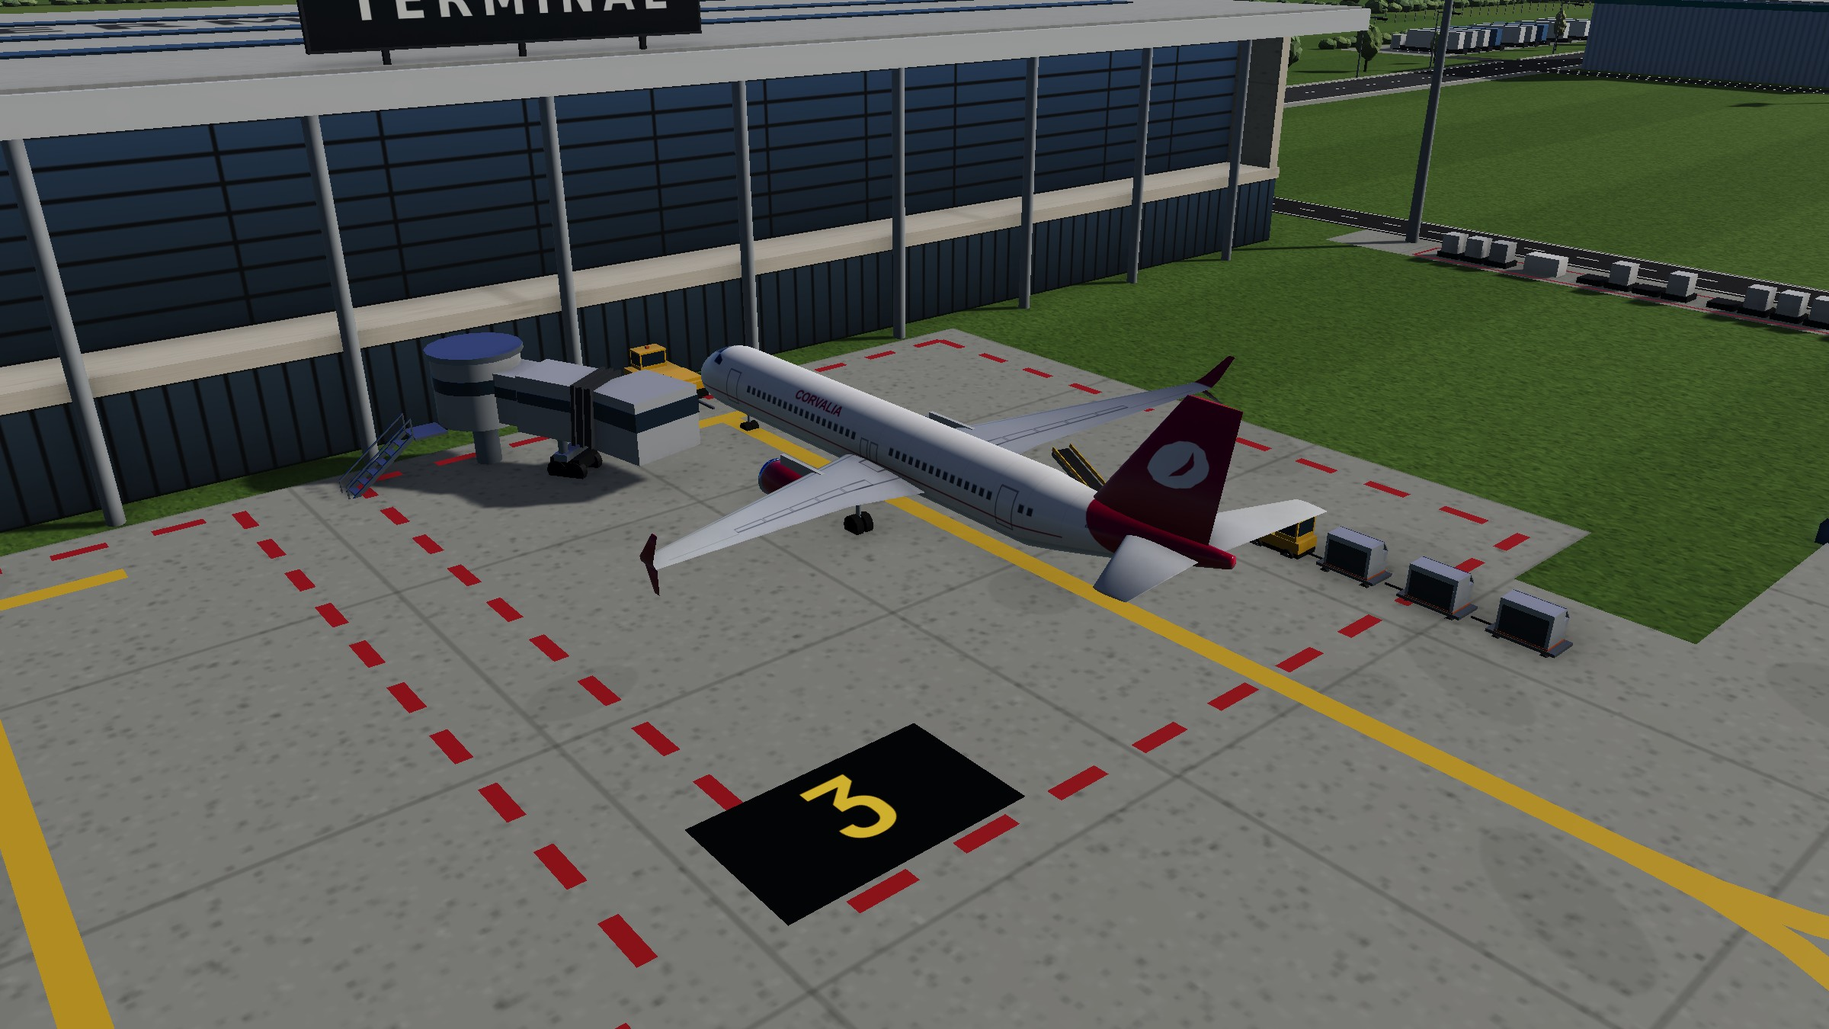
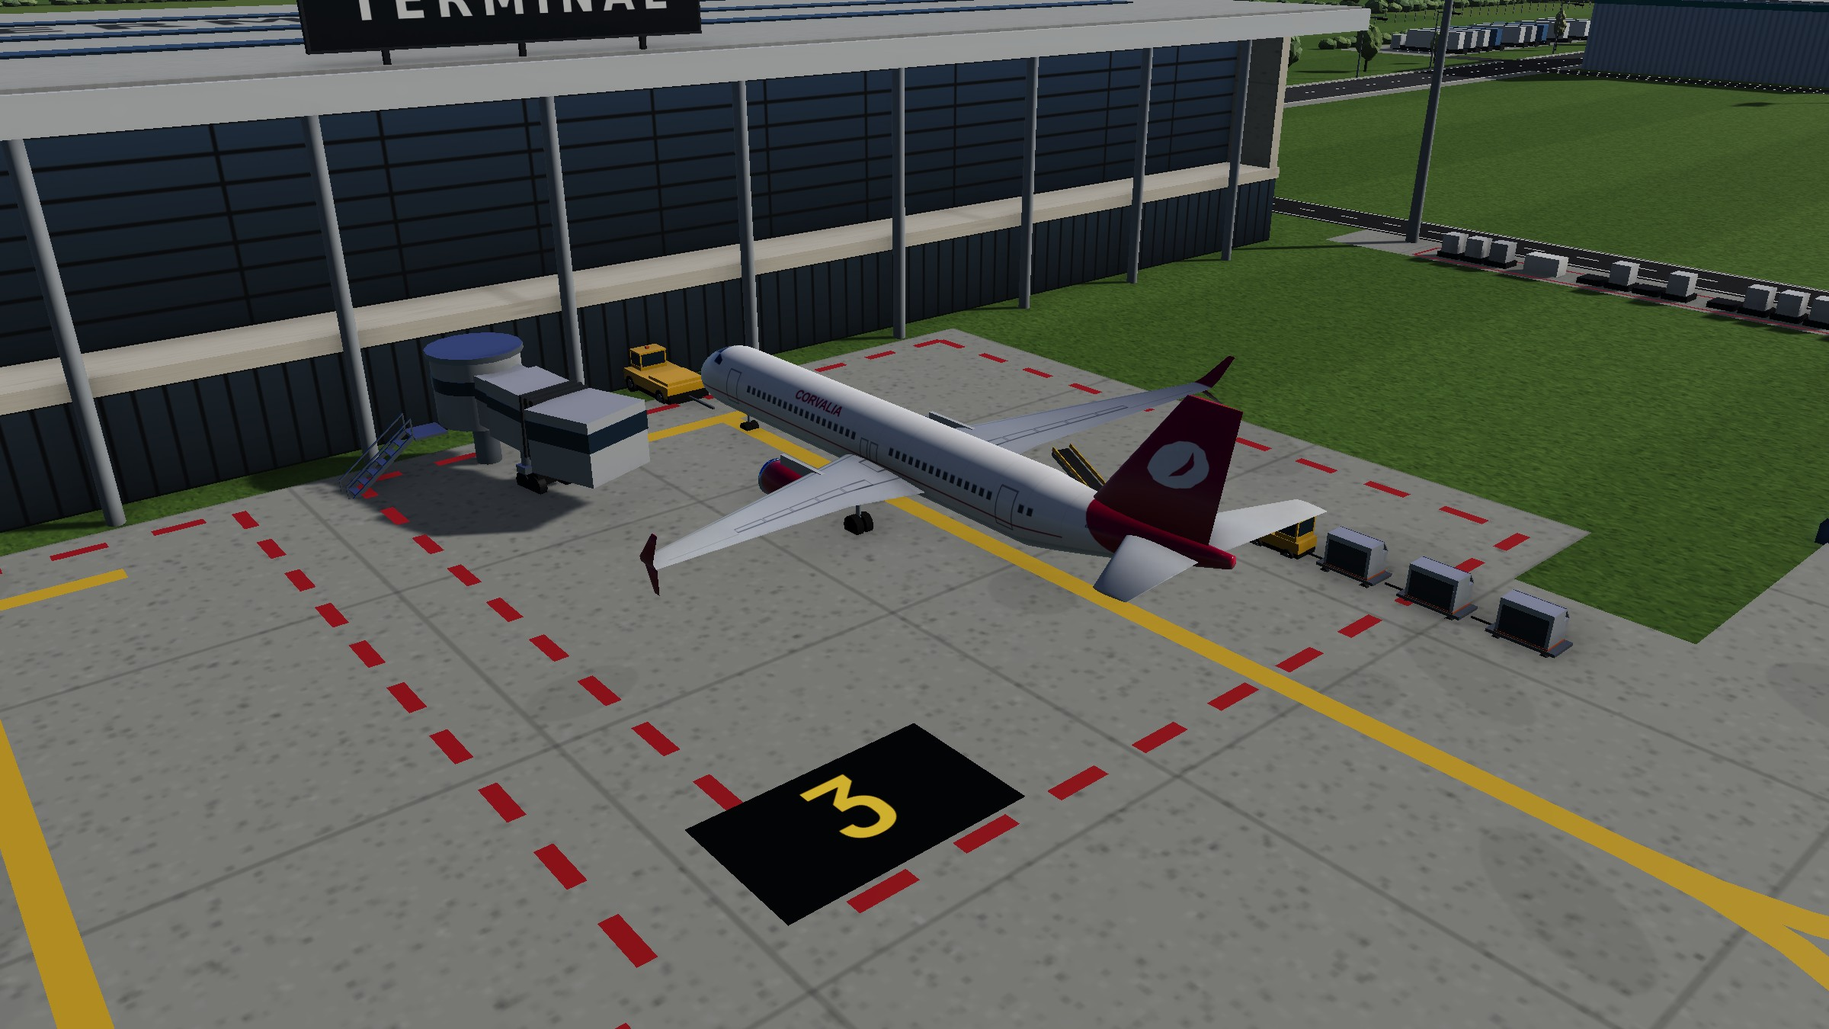
Polish round 2: Build Mode labels, phones, parked shots, rough edges (#99)
* Polish: Build Mode, phone screenshots, parked shots and rough edges

- Build Mode leaves out the landside dressing (free tiles look free) and draws Land Plot prices on top of the
  dimmed plots again (they had turned dark).
- Screenshots: a phone-sized Live Day and Plan Mode; parked close-ups pick an aircraft parked at least a minute and
  let the Day run a moment first, so its vehicles and jet bridge are out.
- No flood mast where two buildings meet (it stood in the first Stand); de-icing trucks get wheels; glass under the
  Terminal deck shows less sky (it's in shade); a little brighter at golden hour; one doc sentence said twice.

Claude-Session: https://claude.ai/code/session_017hX3QnC5DmNMeZd9roDefn

* Phones: the Plan Mode header wraps, so Start Day is on screen

On a 390 px wide phone the header didn't wrap: money, Options and Start Day ran off the right edge, so a Day
couldn't be started. Below 900 px it now wraps, with Start Day full width under it.

Claude-Session: https://claude.ai/code/session_017hX3QnC5DmNMeZd9roDefn

* Update README screenshots

* Build Mode plot prices as page text; parked shots wait for a whole game minute

The Land Plot prices drawn in 3D kept coming out dark; they're now page text over the map, placed and sized with the
zoom (hidden when a plot is too small to read). Parked close-ups now run the Day until its clock has moved on a
minute and the new step is drawn.

Claude-Session: https://claude.ai/code/session_017hX3QnC5DmNMeZd9roDefn
[…]

Changed region(s): [[0.1875, 0.3422, 0.4062, 0.5289]]

diff --git a/src/render/view.ts b/src/render/view.ts
@@ -14,7 +14,6 @@ import { AircraftLayer } from './aircraftLayer';
 import { buildAirfield, type Airfield } from './airfield';
 import { buildLightPools, type LightPools } from './lightPools';
 import { PerfOverlay } from './perfOverlay';
-import { canvasTexture } from './textures';
 
 const GROUND_NIGHT = new Color3(0.02, 0.025, 0.03);
 const GROUND_DAY = new Color3(0.42, 0.46, 0.4);
@@ -205,7 +204,7 @@ export class AirportView {
     for (const item of this.airfieldItems) item.dispose();
     const s = this.scene;
     const before = new Set<object>([...s.meshes, ...s.materials, ...s.textures, ...s.transformNodes]);
-    this.airfield = buildAirfield({ scene: s, caster: (m) => this.shadows.addShadowCaster(m, false), glow: (m) => this.glow.addIncludedOnlyMesh(m) }, layout);
+    this.airfield = buildAirfield({ scene: s, caster: (m) => this.shadows.addShadowCaster(m, false), glow: (m) => this.glow.addIncludedOnlyMesh(m), dressing: this.mode === 'live' }, layout);
     // painted pools of light on the ground at night (under every flood mast, on Stands, along building fronts)
     this.pools = this.mode === 'live' ? buildLightPools(s, layout, this.airfield.floods) : null;
     this.airfieldItems = [...s.meshes, ...s.materials, ...s.textures, ...s.transformNodes].filter((x) => !before.has(x));
@@ -312,7 +311,8 @@ export class AirportView {
     for (const l of this.airfield?.lights ?? []) l.mat.emissiveColor = l.colour.scale(l.day + (1 - l.day) * aircraftGlow);
     for (const g of this.airfield?.litGlass ?? []) g.emissiveColor = Color3.White().scale(1.3 * aircraftGlow);
     this.glow.intensity = 0.35 + 0.9 * aircraftGlow;
-    this.pipeline.imageProcessing.exposure = 1 + 0.4 * aircraftGlow + 0.12 * golden * day;
+    // a little brighter at golden hour: the low sun leaves much of a wide view in shadow
+    this.pipeline.imageProcessing.exposure = 1 + 0.4 * aircraftGlow + 0.22 * golden * day;
     this.pipeline.imageProcessing.contrast = 1.12 + 0.08 * day;
     return darkness;
   }
@@ -402,6 +402,22 @@ export class AirportView {
       // the tile grid fades in as tiles get big enough to aim at (faint when the whole map shows)
       const tilePx = (T / viewW) * cssW;
       if (this.grid) this.grid.color = Color3.Lerp(new Color3(0.3, 0.42, 0.2), new Color3(0.85, 0.9, 0.85), 0.15 + 0.6 * clamp((tilePx - 8) / 16, 0, 1));
+      this.placePlotLabels();
+    }
+  }
+
+  /** Puts each Land Plot price over the middle of its plot, sized to it (hidden when the plot is too small to read). */
+  private placePlotLabels(): void {
+    const at = this.canvas.dataset.tiles ? (JSON.parse(this.canvas.dataset.tiles) as { x: number; y: number; size: number }) : null;
+    if (!at) return;
+    const left = this.canvas.offsetLeft;
+    const top = this.canvas.offsetTop;
+    for (const { el, r } of this.plotLabels) {
+      const w = r.w * at.size;
+      el.style.display = w < 70 ? 'none' : '';
+      el.style.left = `${left + at.x + (r.x + r.w / 2) * at.size}px`;
+      el.style.top = `${top + at.y + (r.y + r.h / 2) * at.size}px`;
+      el.style.fontSize = `${Math.round(clamp(w * 0.07, 10, 16))}px`;
     }
   }
 
@@ -569,6 +585,8 @@ export class AirportView {
   // ---- Build Mode overlay: grid, Land Plots, no-build zones, placement ghost
 
   private overlay: Array<{ dispose(): void }> = [];
+  /** Build Mode: Land Plot prices as page text over the map (always crisp and readable, whatever the 3D light does). */
+  private plotLabels: Array<{ el: HTMLElement; r: TileRect }> = [];
   private grid: LinesMesh | null = null;
   private ghost: Array<{ dispose(): void }> = [];
 
@@ -614,10 +632,17 @@ export class AirportView {
     this.applyCamera();
     this.lines('plots', plots, '#ffc845', 0.6, this.overlay);
     const dim = this.overlayMat('unowned', '#000000', 0.55);
+    this.plotLabels = [];
     for (const p of unowned) {
       this.flat('unowned', p, dim, this.overlay);
-      this.overlay.push(this.label(plotLabel, p));
+      const el = document.createElement('div');
+      el.className = 'plot-label';
+      el.textContent = plotLabel;
+      this.canvas.parentElement?.append(el);
+      this.plotLabels.push({ el, r: p });
+      this.overlay.push({ dispose: () => el.remove() });
     }
+    this.placePlotLabels();
     const zone = this.overlayMat('end-zone', '#ff6b5e', 0.16);
     const hatch: Vector3[][] = [];
     for (const z of endZones) {
@@ -630,32 +655,6 @@ export class AirportView {
       }
     }
     if (hatch.length) this.lines('hatch', hatch, '#ff6b5e', 0.6, this.overlay);
-  }
-
-  private label(text: string, r: TileRect): Mesh {
-    const tex = canvasTexture(this.scene, 'plot-label', 512, 64, (g) => {
-      g.fillStyle = 'rgba(11,18,16,0.6)';
-      g.fillRect(0, 0, 512, 64);
-      g.fillStyle = '#e6efeb';
-      g.font = '700 44px "JetBrains Mono", monospace';
-      g.textAlign = 'center';
-      g.textBaseline = 'middle';
-      g.fillText(text, 256, 34, 500);
-    }, { clamp: true, alpha: true });
-    const mat = new StandardMaterial('plot-label', this.scene);
-    mat.disableLighting = true;
-    mat.diffuseTexture = tex;
-    mat.emissiveTexture = tex;
-    mat.useAlphaFromDiffuseTexture = true;
-    mat.backFaceCulling = false;
-    const w = r.w * T * 0.9;
-    const m = MeshBuilder.CreateGround('plot-label', { width: w, height: w / 8 }, this.scene);
-    m.position.set((r.x + r.w / 2) * T, 1.4, -(r.y + r.h / 2) * T);
-    m.material = mat;
-    m.renderingGroupId = 1;
-    m.isPickable = false;
-    this.overlay.push(mat, tex);
-    return m;
   }
 
   /** The placement ghost: rectangles in green (fits) or red (doesn't), a lead-in line, and the thing being moved. */

diff --git a/src/render/buildings.ts b/src/render/buildings.ts
@@ -26,6 +26,8 @@ export interface BuildingKit {
   readonly lamp: (name: string, hex: string, day?: number) => StandardMaterial;
   /** Flood masts (world units); the view turns the first few into real lights. */
   readonly floods: Vector3[];
+  /** Where two buildings meet: no flood mast there. */
+  readonly noFloods: Vector3[];
   /** A building name painted flat at `height` (world units) over sim point (x, y), turned by `yaw` (radians). */
   readonly label: (text: string, x: number, y: number, w: number, h: number, height: number, colour: string, yaw?: number) => void;
 }
@@ -330,10 +332,17 @@ class Frame {
     const yaw = this.side === 'east' || this.side === 'west' ? TURN[this.side] : 0;
     this.kit.label(text, p.x, -p.z, w * METRE, h * METRE, p.y + 0.03, colour, yaw);
   }
-  /** A flood mast at a local point; one already standing within 24 m (the next building's, where two meet) serves both. */
+  /**
+   * A flood mast at a local point. Where two buildings meet, their masts would stand in front of the join, out in the
+   * first Stand: there neither gets one (the masts at the outer ends of the joined frontage light it).
+   */
   flood(x: number, y: number, z: number): void {
     const p = this.world(x, y, z);
-    if (!this.kit.floods.some((q) => Math.hypot(q.x - p.x, q.z - p.z) < 24 * METRE)) this.kit.floods.push(p);
+    const near = this.kit.floods.findIndex((q) => Math.hypot(q.x - p.x, q.z - p.z) < 24 * METRE);
+    if (near >= 0) {
+      this.kit.floods.splice(near, 1);
+      this.kit.noFloods.push(p);
+    } else if (!this.kit.noFloods.some((q) => Math.hypot(q.x - p.x, q.z - p.z) < 24 * METRE)) this.kit.floods.push(p);
   }
   /**
    * A name sign on short posts on a roof edge, facing the airside: white capitals on a dark plate `h` m tall (as wide
@@ -403,7 +412,12 @@ export function buildTerminal(kit: BuildingKit, s: TileRect, airside: Facing): v
   const zl = zN - 12; // landside glass; the canopy runs on to the edge
   const ry = 19.5; // underside of the roof deck
   const inner = L - 6; // between the stone end walls
-  const g = (kind: string, w: number) => glass(kit, `${kind}-${s.x}-${s.y}`, w, GLASS[kind]!);
+  // under the roof deck the glass is in shade, so it shows less of the bright sky
+  const g = (kind: string, w: number) => {
+    const m = glass(kit, `${kind}-${s.x}-${s.y}`, w, GLASS[kind]!);
+    if (kind !== 'slot') m.environmentIntensity = 0.7;
+    return m;
+  };
   f.box(inner, 6.6, zh - zg, 0, 0, (zg + zh) / 2, M.darkSteel);
   f.face(inner, 6, 0, 0, zg - 0.02, 's', g('gate', inner));
   f.box(inner + 0.4, 1, zh - zg + 0.4, 0, 6, (zg + zh) / 2, M.stone);
@@ -689,6 +703,16 @@ export function buildSupport(kit: BuildingKit, s: TileRect, role: SupportRole, f
       part(2.6, 2.2, 2.2, 0, 1.7, 5, M.white);
       part(0.6, 0.6, 11, 0, 7, -1, M.offWhite, -0.75);
       part(1.8, 1.6, 1.8, 0, 10.8, 3.2, body);
+      // six wheels down to the pad (which is raised 0.3 m)
+      for (const wz of [-2.6, 0, 4.9])
+        for (const wx of [-1.15, 1.15]) {
+          const w = MeshBuilder.CreateCylinder('de-ice-wheel', { diameter: 0.9, height: 0.45, tessellation: 12 }, kit.scene);
+          w.parent = r;
+          w.rotation.z = Math.PI / 2;
+          w.position.set(wx, 0.75, wz);
+          w.material = M.rubber;
+          kit.caster(w);
+        }
     }
     for (const x of [L / 2 - 5, L / 2 - 9]) f.cyl(3, 6, x, 0, zN - 5, M.white, { tess: 16 });
   }

diff --git a/src/render/airfield.ts b/src/render/airfield.ts
@@ -10,7 +10,7 @@ import { holdShortLines, TAXIWAY_INSET, taxiwayEdgeLights } from '../sim/marking
 import { pbr } from './aircraftModels';
 import { buildCargoHub, buildSupport, buildTerminal, buildTower, type BuildingKit } from './buildings';
 import { groundLines, meshFrom, orient, thinInstances, type Place } from './geometry';
-import { buildLandside } from './landside';
+import { buildLandside, type Landside } from './landside';
 import { paintName } from './lettering';
 import { buildGrass, buildTrees, fieldGrid, plantCountryside, type Area } from './scenery';
 import { centreLinePaths } from './taxiLines';
@@ -45,6 +45,8 @@ export interface AirfieldContext {
   readonly scene: Scene;
   readonly caster: (m: Mesh) => void;
   readonly glow: (m: Mesh) => void;
+  /** Landside dressing (roads, car parks, service roads): drawn in a Live Day, left out in Build Mode so free tiles look free. */
+  readonly dressing?: boolean;
 }
 
 /** World-space rectangle of a tile rectangle on the ground: x0…x1 east, z0…z1 (z = −y). */
@@ -337,6 +339,7 @@ export function buildAirfield(ctx: AirfieldContext, layout: AirportLayout): Airf
     litGlass,
     lamp: lightMat,
     floods,
+    noFloods: [],
     label: (text, x, y, w, h, height, colour, yaw) => void decal(scene, text, x, y, w, h, height, colour, null, true, yaw),
   };
   for (const s of layout.structures) {
@@ -399,7 +402,9 @@ export function buildAirfield(ctx: AirfieldContext, layout: AirportLayout): Airf
   const margin = 40 * T;
   const world = box3({ x: WORLD.x0, y: WORLD.y0, w: WORLD.width, h: WORLD.height });
   const ground: Area = { x0: world.x0 - margin, x1: world.x1 + margin, z0: world.z0 - margin, z1: world.z1 + margin };
-  const land = buildLandside(scene, ctx.caster, layout, (s) => airsideOf(s, layout), concrete, ground);
+  const land: Landside = ctx.dressing === false
+    ? { areas: [], roads: [], lamps: [], trees: [] }
+    : buildLandside(scene, ctx.caster, layout, (s) => airsideOf(s, layout), concrete, ground);
   lightBoxes('street-lamp', '#ffd59a', [...land.lamps], 1, 0.05);
   const xs = layout.structures.flatMap((s) => [s.x * T, (s.x + s.w) * T]);
   const zs = layout.structures.flatMap((s) => [-s.y * T, -(s.y + s.h) * T]);

diff --git a/src/style.css b/src/style.css
@@ -295,6 +295,7 @@ kbd { padding: 0 4px; border: 1px solid var(--line); border-radius: 3px; font: 1
 .build-map canvas { position: absolute; inset: 0; display: block; width: 100%; height: 100%; outline: none; }
 .build-map .ghost-label { position: absolute; pointer-events: none; font: 700 11px 'JetBrains Mono', monospace; color: #fff; background: rgba(11, 18, 16, 0.78); padding: 1px 5px; border-radius: 3px; white-space: nowrap; }
 .build-map .ghost-label:empty { display: none; }
+.plot-label { position: absolute; transform: translate(-50%, -50%); pointer-events: none; font: 700 12px 'JetBrains Mono', monospace; color: #e6efeb; background: rgba(11, 18, 16, 0.78); padding: 2px 8px; border-radius: 3px; white-space: nowrap; }
 .build-side { display: flex; flex-direction: column; gap: 12px; overflow-y: auto; }
 .candidate p { margin: 0 0 6px; font-size: 12px; }
 .checks { list-style: none; margin: 0; padding: 0; display: grid; gap: 3px; font-size: 12px; }
@@ -495,6 +496,9 @@ button.danger { height: 36px; padding: 0 14px; border-radius: 4px; border: 1px s
   .rail, .panel { flex: 1 1 260px; width: auto; max-height: 40vh; }
   .hours { display: none; }
   .plan-body { grid-template-columns: 1fr; }
+  /* the Plan Mode header wraps, so money, Options and Start Day stay on screen on a phone */
+  .plan-head { height: auto; flex-wrap: wrap; gap: 8px 12px; padding: 10px 12px; }
+  .plan-head .start { flex: 1 1 100%; }
   .build { height: auto; grid-template-columns: 1fr; grid-template-rows: auto 60vh auto; }
   .palette { flex-direction: row; flex-wrap: wrap; }
   .variants { flex: 1 1 100%; grid-template-columns: repeat(auto-fill, minmax(70px, 1fr)); }

diff --git a/docs/game-design.md b/docs/game-design.md
@@ -294,13 +294,15 @@ A reward for winning a Week that also steers the rest of the Run (`contracts.ts 
   to three times the starting distance), and it can't go below about 20° above the ground or wander far off the map.
   "⌂ View" (key V) goes back to the starting view. Far away the airfield fades into haze under a sky that follows the
   Day. Build Mode looks straight down at the whole map without perspective (tiles stay square) and can zoom and pan
-  (Controls). Scale: a tile is 16 m, so Medium aircraft fit their 3-tile Stands at real size.
+  (Controls). Land Plots not yet owned are dimmed, each with its price as plain text over its middle (hidden when
+  zoomed out so far the plot is too small to read). Scale: a tile is 16 m, so Medium aircraft fit their 3-tile Stands at real size.
 - **Lighting:** physically based materials (painted metal with a clear coat, glass, concrete, grass), a sun that moves
   from east to west through the Day and casts real shadows, sky reflections on paint and glass, tone mapping and a
   soft glow round lights; at the best quality also soft contact shadows where things meet (ambient occlusion). The sun
   is the strong light and the sky only a weaker, cooler fill, so sunlit and shaded sides differ clearly. Glazing is
   tinted mirror glass: by day it shows the sky (lighter towards the top of each pane, pale blue-grey on the façades,
-  pale green on the Tower cab) with its bars and floor slabs as matt paint; at night the lit interior shows through.
+  pale green on the Tower cab; glass under the Terminal's roof deck is in shade and shows less of it) with its bars
+  and floor slabs as matt paint; at night the lit interior shows through.
   The sky the scene reflects is blue overhead, coloured at the horizon (gold at sunrise and sunset) and turns part
   way to a dull ground colour below the horizon (so glass seen from above still reads as sky).
 - **Ground:** inside a perimeter fence round everything built (and the landside dressing) the grass is kept short and
@@ -310,7 +312,8 @@ A reward for winning a Week that also steers the rest of the Run (`contracts.ts 
   so often, sometimes a row of poplars), copses of broadleaves and pines with bushes round their rims, and single
   trees. There are five kinds with lumpy, slightly varied crowns (darker underneath) in several greens and sizes:
   spreading oaks, rounder limes, slim light birches, tall narrow poplars and dark tiered spruces.
-- **Landside dressing** (decoration only, rebuilt from the layout whenever it changes; it never affects play): on the
+- **Landside dressing** (decoration only, rebuilt from the layout whenever it changes; it never affects play, and
+  Build Mode leaves it out so free tiles look free): on the
   landside of every Terminal and Cargo Hub (the side away from its airside) runs a two-lane access road, 16 m of dark
   asphalt with kerbs, white edge lines and a dashed centre line, a footpath along the building and street lamps on the
   far verge (glowing at night) with small trees between them; the roads of neighbouring buildings on the same line
@@ -379,14 +382,12 @@ A reward for winning a Week that also steers the rest of the Run (`contracts.ts 
     Office (four glass storeys behind stone fins); Airline Office (three glass storeys under a bronze crown); Ramp
     Agent Station (a low building with an orange roof edge and a vehicle shed with tugs and baggage carts); Fuel Farm
     (white tanks with a blue band in a bund wall, a pipe rack, a pump house and two lamp posts); De-icing Pad (blue-lined pad, two
-    boom trucks, glycol tanks).
+    boom trucks on six wheels, glycol tanks).
   - Flood masts (28 m, matt galvanised grey, tapering) stand at the front corners of Terminals and Cargo Hubs, a little
-    out on the apron side; where two buildings meet, one mast serves both. Each head is a frame with a service
+    out on the apron side; where two buildings meet neither has a mast at the join (it would stand in the first Stand),
+    so a joined frontage has masts only at its outer ends. Each head is a frame with a service
     platform and two rows of four floodlight housings tilted down towards the apron; at night their lenses glow and the
     first four masts light the apron round them (real lights, so aircraft and vehicles there are lit too).
-  - Names painted on buildings and in front of them (TERMINAL, CARGO, the Support Buildings') run along the building's
-    front: on buildings facing south or north they read from the south, on buildings facing east or west from the
-    airside.
 - **Grass strips** look like mown grass, not paving: a lighter green strip with mowing bands across it, white
   boundary markers along both edges and a row at each threshold, small designators, no centre line and never lights
   (the Runway Surface upgrade leaves them grass, and its offer says so when the airport has one).
@@ -398,7 +399,7 @@ A reward for winning a Week that also steers the rest of the Run (`contracts.ts 
   height (strongest below about 12°, gone above about 34°, so roughly 06:00–08:00 and 18:00–20:00): the sunlight turns
   gold and stays strong, so shadows are long and crisp and the walls facing the sun glow, while the sky overhead stays
   blue (a cool fill in the shadows) and only the horizon turns gold. The haze in the distance is pale blue by day and a
-  light peach at golden hour (never brown), slightly thinner then; at night it is dark blue. Midday has a little more
+  light peach at golden hour (never brown), slightly thinner then, and the picture is a little brighter then; at night it is dark blue. Midday has a little more
   contrast than the rest of the Day. At night the sun gives way to dim blue moonlight, and lights, lit windows and
   glass glow, and pools of warm light lie on the ground: a wide one under every flood mast, a softer one on every
   Stand and a row of small ones along each side of a building that meets paving. The pools are painted on the ground,
@@ -467,7 +468,7 @@ A reward for winning a Week that also steers the rest of the Run (`contracts.ts 
   alerts start with what happened (CRASH, MAYDAY, …).
 - **Text** is at least 11 px; both looks keep every text colour at 6:1 contrast or better on their panels.
 - **Screen sizes:** below 1200 px wide the side panels narrow and the top bar wraps; below 900 px the map no longer
-  fills the window and the Live Day stacks (map on top, flight strips and Tower panel below), Plan Mode becomes one column and Build Mode puts its tools above
+  fills the window and the Live Day stacks (map on top, flight strips and Tower panel below), Plan Mode becomes one column (its header wraps, with Start Day as a full-width button under it) and Build Mode puts its tools above
   the map.
 - **Reduce motion** (Options; follows the system setting until changed): aircraft beacons glow steadily and strobes
   stay off instead of flashing.

diff --git a/README.md b/README.md
@@ -26,6 +26,8 @@ Then open http://localhost:8080. Versions and their images are listed under [Rel
 | **Dawn**: the day–night cycle, with navigation, beacon and landing lights on the aircraft | **Build or discard**: leaving Build Mode or starting the Day with unconfirmed changes asks first |
 | ![Picking an Airline Contract after a won Week](docs/screenshots/contract-offer.png) | ![Plan Mode in the light look](docs/screenshots/plan-light.png) |
 | **Airline Contracts**: after a won Week, pick one of three (or skip for money); each steers the traffic for the rest of the Run | **Light look**: Options → Look switches the menus and panels to a pale "tower by day" console |
+| ![A phone: the Live Day with the map on top and the flight strips below](docs/screenshots/phone-live-day.png) | ![A phone: Plan Mode in one column](docs/screenshots/phone-plan-mode.png) |
+| **On a phone** the Live Day stacks: the 3D map on top, flight strips and the Tower panel below | **Plan Mode on a phone**: one column |
 
 ### The look
 
